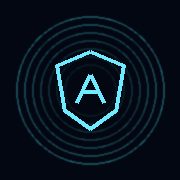
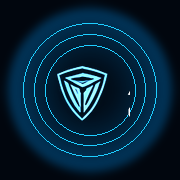
Add files via upload

diff --git a/index.html b/index.html
@@ -2,89 +2,258 @@
 <html lang="ja">
 <head>
   <meta charset="utf-8">
-  <meta name="viewport" content="width=device-width,initial-scale=1,viewport-fit=cover,user-scalable=no">
-  <meta name="theme-color" content="#020711">
+  <meta name="viewport" content="width=device-width,initial-scale=1,viewport-fit=cover,user-scalable=no,maximum-scale=1">
+  <meta name="theme-color" content="#00040a">
+  <meta name="color-scheme" content="dark">
   <meta name="apple-mobile-web-app-capable" content="yes">
   <meta name="apple-mobile-web-app-status-bar-style" content="black-translucent">
   <meta name="apple-mobile-web-app-title" content="AEGIS">
-  <link rel="apple-touch-icon" href="apple-touch-icon.png">
-  <link rel="manifest" href="manifest.webmanifest">
-  <title>AEGIS Mobile V0.2</title>
+  <meta name="format-detection" content="telephone=no">
+  <link rel="apple-touch-icon" href="./apple-touch-icon.png?v=030">
+  <link rel="manifest" href="./manifest.webmanifest?v=030">
+  <link rel="apple-touch-startup-image" href="./splash-1242x2688.png?v=030" media="(device-width: 414px) and (device-height: 896px) and (-webkit-device-pixel-ratio: 3) and (orientation: portrait)">
+  <title>AEGIS Guardian AI</title>
   <style>
-    :root{
-      --bg:#020711;--panel:#061321;--line:rgba(84,223,255,.28);
-      --cyan:#6eeaff;--cyan2:#1ba9ff;--text:#e9fbff;--muted:#7ca4b3;
+    :root {
+      --cyan:#29c9ff; --cyan2:#79edff; --blue:#176dff; --violet:#7b58ff;
+      --green:#3df29c; --red:#ff4050; --ink:#00040a; --panel:rgba(1,10,21,.94);
+      --screen-ratio: .4625813449;
     }
     *{box-sizing:border-box;-webkit-tap-highlight-color:transparent}
-    html,body{margin:0;background:radial-gradient(circle at 50% 34%,#082941 0,#020711 43%,#01040a 100%);color:var(--text);font-family:-apple-system,BlinkMacSystemFont,"SF Pro Display","Segoe UI",sans-serif;min-height:100%}
-    body{padding:env(safe-area-inset-top) 14px env(safe-area-inset-bottom)}
-    .wrap{max-width:430px;margin:0 auto;min-height:100vh;position:relative;overflow:hidden}
-    .grid{position:absolute;inset:0;opacity:.12;background-image:linear-gradient(var(--line) 1px,transparent 1px),linear-gradient(90deg,var(--line) 1px,transparent 1px);background-size:26px 26px;mask-image:linear-gradient(#000,transparent 80%);pointer-events:none}
-    header{display:flex;justify-content:space-between;align-items:center;padding:10px 4px 6px;position:relative;z-index:5}
-    .brand{font-weight:700;letter-spacing:.15em}.sub{font-size:11px;color:var(--muted);margin-top:3px}.badge{font-size:11px;border:1px solid var(--line);border-radius:999px;padding:7px 9px;color:var(--cyan)}
-    .hud{border:1px solid var(--line);border-radius:26px;padding:15px;background:rgba(3,12,22,.62);backdrop-filter:blur(8px);position:relative;overflow:hidden}
-    .row{display:flex;justify-content:space-between;gap:8px;font-size:11px;color:var(--muted)}
-    .mini{margin-top:8px;display:grid;grid-template-columns:1fr 1fr;gap:8px}
-    .mini>div{border:1px solid var(--line);border-radius:12px;padding:8px 10px;background:rgba(5,17,30,.62);display:flex;justify-content:space-between}
-    .mini b{color:var(--cyan)}
-    .stage{position:relative;width:min(92vw,390px);aspect-ratio:1;margin:-4px auto -8px;display:grid;place-items:center;isolation:isolate}
-    .stage:before{content:"";position:absolute;inset:7%;border-radius:50%;background:radial-gradient(circle,rgba(60,220,255,.25),transparent 62%);filter:blur(10px);animation:breathe 3.3s ease-in-out infinite}
-    .ring,.arc,.halo,.scan,.beam,.orb,.particle{position:absolute}
-    .ring{border-radius:50%;border:1px solid var(--cyan);box-shadow:0 0 12px rgba(70,220,255,.35),inset 0 0 12px rgba(70,220,255,.15)}
-    .r1{inset:8%;border-style:dashed;opacity:.5;animation:spin 9s linear infinite}.r2{inset:15%;border-width:2px;border-left-color:transparent;border-right-color:transparent;animation:spinR 6.8s linear infinite}.r3{inset:23%;border-style:dotted;animation:spin 4.8s linear infinite}.r4{inset:31%;border-width:2px;border-top-color:transparent;animation:spinR 3.6s linear infinite}.r5{inset:39%;border-left-color:transparent;border-bottom-color:transparent;animation:spin 2.5s linear infinite}
-    .arc{border-radius:50%;border:2px solid transparent;border-top-color:var(--cyan);border-right-color:var(--cyan);filter:drop-shadow(0 0 6px var(--cyan));opacity:.75}.a1{inset:6%;animation:spin 5.5s linear infinite}.a2{inset:20%;animation:spinR 4.1s linear infinite}.a3{inset:35%;animation:spin 2.9s linear infinite}
-    .halo{left:18%;right:18%;height:9%;border:1px solid var(--cyan);border-radius:50%;opacity:.5;filter:drop-shadow(0 0 7px var(--cyan))}.h1{top:7%;animation:float 3s ease-in-out infinite}.h2{bottom:8%;animation:floatR 3.7s ease-in-out infinite}
-    .scan{left:10%;right:10%;height:1px;background:var(--cyan);box-shadow:0 0 9px var(--cyan);z-index:7;animation:scan 3s ease-in-out infinite}.beam{top:6%;bottom:6%;width:1px;background:linear-gradient(transparent,var(--cyan),transparent);left:50%;opacity:.4;animation:beam 2.5s ease-in-out infinite}
-    .orb{width:27%;aspect-ratio:1;border-radius:50%;border:2px solid var(--cyan);background:radial-gradient(circle at 50% 45%,rgba(85,235,255,.38),rgba(3,15,29,.96) 65%);box-shadow:0 0 34px rgba(80,228,255,.62),inset 0 0 30px rgba(80,228,255,.28);z-index:8;display:grid;place-items:center;animation:orb 2s ease-in-out infinite}
-    .shield{width:46%;aspect-ratio:1;clip-path:polygon(50% 0,92% 16%,79% 72%,50% 100%,21% 72%,8% 16%);border:2px solid var(--cyan);display:grid;place-items:center;font-weight:800;color:var(--cyan);text-shadow:0 0 12px var(--cyan)}
-    .particle{width:3px;height:3px;border-radius:50%;background:var(--cyan);box-shadow:0 0 8px var(--cyan);opacity:.65;animation:drift 3s ease-in-out infinite alternate}
-    .labels{text-align:center;margin-top:-12px}.mode{font-weight:700;letter-spacing:.12em}.desc{font-size:12px;color:var(--muted);margin-top:5px}
-    .flow{margin-top:12px;border:1px solid var(--line);border-radius:14px;padding:10px;background:rgba(4,14,25,.68)}.steps{display:grid;grid-template-columns:repeat(4,1fr);gap:5px}.step{border:1px solid var(--line);border-radius:9px;padding:7px 2px;text-align:center;font-size:10px;color:var(--muted)}.step.active{border-color:var(--cyan);color:var(--text);background:rgba(70,220,255,.09)}#decision{font-size:12px;color:var(--muted);margin-top:9px}
-    .buttons{display:grid;grid-template-columns:1fr 1fr;gap:8px;margin-top:12px}.buttons button{appearance:none;border:1px solid var(--line);border-radius:12px;padding:13px 8px;background:rgba(4,16,29,.82);color:var(--text);font:inherit}.buttons button:active{background:rgba(70,220,255,.12)}
-    .stage.listening .r1{animation-duration:4s}.stage.listening .r2{animation-duration:3s}.stage.listening .r3{animation-duration:2.2s}.stage.verifying .r1{animation-duration:2.7s}.stage.verifying .r2{animation-duration:1.9s}.stage.verifying .r3{animation-duration:1.4s}.stage.verifying .r4{animation-duration:1.05s}.stage.verifying .r5{animation-duration:.82s}.stage.verifying .scan{animation-duration:1.3s}.stage.approved .orb{animation-duration:.7s}.stage.stopped .ring,.stage.stopped .arc,.stage.stopped .halo,.stage.stopped .scan,.stage.stopped .beam,.stage.stopped .particle{animation-play-state:paused;opacity:.16}.stage.stopped .orb{animation:none}
-    @keyframes spin{to{transform:rotate(360deg)}}@keyframes spinR{to{transform:rotate(-360deg)}}@keyframes breathe{50%{transform:scale(1.06);opacity:1}}@keyframes orb{50%{transform:scale(1.05)}}@keyframes scan{0%{top:17%;opacity:0}20%{opacity:.9}80%{opacity:.9}100%{top:82%;opacity:0}}@keyframes beam{50%{opacity:.75;transform:scaleY(1.04)}}@keyframes float{50%{transform:translateY(5px) scaleX(1.04)}}@keyframes floatR{50%{transform:translateY(-5px) scaleX(.9)}}@keyframes drift{to{transform:translate(5px,8px) scale(1.35);opacity:1}}
-    @media (prefers-reduced-motion:reduce){*{animation:none!important}}
+    html,body{margin:0;width:100%;height:100%;overflow:hidden;background:#000;color:#eaffff;font-family:-apple-system,BlinkMacSystemFont,"SF Pro Display","Helvetica Neue",Arial,sans-serif;overscroll-behavior:none}
+    body{position:fixed;inset:0;touch-action:manipulation;user-select:none;-webkit-user-select:none}
+    #viewport{position:absolute;inset:0;display:grid;place-items:center;background:radial-gradient(circle at 50% 35%,#031728 0,#00040a 55%,#000 100%);overflow:hidden}
+    #screen{position:relative;overflow:hidden;background:#000;isolation:isolate;transform:translateZ(0);contain:layout paint size}
+    #baseline{position:absolute;inset:0;width:100%;height:100%;object-fit:fill;display:block;z-index:0;pointer-events:none}
+    #particleCanvas,#waveCanvas{position:absolute;display:block;pointer-events:none;z-index:4;mix-blend-mode:screen}
+    #particleCanvas{inset:0;width:100%;height:100%}
+    #waveCanvas{left:3.2%;top:60.3%;width:93.6%;height:4.2%;opacity:.78}
+    .core-fx{position:absolute;left:50%;top:36.9%;width:79.2%;aspect-ratio:1;transform:translate(-50%,-50%);z-index:3;pointer-events:none;filter:drop-shadow(0 0 .7em rgba(30,205,255,.24));}
+    .fx-ring,.fx-arc,.fx-orbit{position:absolute;border-radius:50%;inset:0;will-change:transform,opacity}
+    .fx-ring{border:1px solid rgba(83,227,255,.27);box-shadow:0 0 .9em rgba(29,185,255,.16),inset 0 0 .9em rgba(50,210,255,.08)}
+    .fx-ring.r1{inset:2%;border-style:dashed;animation:spin 17s linear infinite}
+    .fx-ring.r2{inset:9%;border-width:2px;border-left-color:transparent;border-right-color:rgba(130,239,255,.12);animation:spinR 11s linear infinite}
+    .fx-ring.r3{inset:18%;border-style:dotted;animation:spin 7.4s linear infinite}
+    .fx-ring.r4{inset:28%;border-width:2px;border-top-color:transparent;border-bottom-color:rgba(70,130,255,.14);animation:spinR 5.1s linear infinite}
+    .fx-ring.r5{inset:38%;border-left-color:transparent;border-bottom-color:transparent;animation:spin 3.6s linear infinite}
+    .fx-arc{border:2px solid transparent;border-top-color:rgba(80,225,255,.68);border-right-color:rgba(50,125,255,.42);filter:drop-shadow(0 0 .45em #2fd4ff)}
+    .fx-arc.a1{inset:5%;animation:spin 9.2s linear infinite}.fx-arc.a2{inset:16%;animation:spinR 6.3s linear infinite}.fx-arc.a3{inset:32%;animation:spin 4.2s linear infinite}
+    .fx-orbit{inset:7% 17%;border:1px solid rgba(104,222,255,.22);transform:rotate(11deg);animation:tiltOrbit 6s ease-in-out infinite alternate}
+    .core-glow{position:absolute;inset:35%;border-radius:50%;background:radial-gradient(circle,rgba(125,241,255,.34),rgba(32,142,255,.10) 43%,transparent 72%);filter:blur(.6em);animation:corePulse 2.7s ease-in-out infinite;will-change:transform,opacity}
+    .vertical-beam{position:absolute;z-index:2;left:49.86%;top:9.4%;width:.3%;height:48.9%;background:linear-gradient(to bottom,transparent,rgba(34,105,255,.22) 10%,rgba(71,231,255,.95) 48%,rgba(74,150,255,.36) 74%,transparent);filter:blur(.08em) drop-shadow(0 0 .65em #42dfff);animation:beamPulse 2.3s ease-in-out infinite;pointer-events:none;mix-blend-mode:screen}
+    .scan-line{position:absolute;z-index:5;left:12%;right:12%;height:1px;top:19%;background:linear-gradient(90deg,transparent,#58e8ff,transparent);box-shadow:0 0 .7em #4bdbff;opacity:.0;animation:scan 5.2s ease-in-out infinite;pointer-events:none}
+    .online-pulse{position:absolute;z-index:5;left:48.45%;top:4.43%;width:1.55%;aspect-ratio:1;border-radius:50%;background:#56f4ba;box-shadow:0 0 .65em rgba(68,255,183,.9);animation:onlinePulse 2s ease-in-out infinite;pointer-events:none}
+    .verify-glow{position:absolute;z-index:5;left:40.2%;top:65.26%;width:19.6%;height:9.13%;border:1px solid rgba(87,227,255,.66);border-radius:2.2%;box-shadow:0 0 1.15em rgba(31,185,255,.5),inset 0 0 .8em rgba(53,178,255,.13);animation:verifyPulse 2.5s ease-in-out infinite;pointer-events:none}
+    .decision-copy{position:absolute;z-index:6;left:4.4%;top:78.35%;width:68.5%;height:7.05%;padding:.55em .15em;background:linear-gradient(90deg,rgba(0,7,15,.97) 0,rgba(0,7,15,.93) 82%,transparent 100%);pointer-events:none}
+    .decision-kicker{font-size:clamp(7px,2.3vw,15px);color:#80aaba;letter-spacing:.03em;margin-bottom:.4em}
+    .decision-title{font-size:clamp(13px,4.65vw,30px);line-height:1;color:#31b8ff;letter-spacing:.055em;text-shadow:0 0 .6em rgba(28,160,255,.5);white-space:nowrap}
+    .decision-reason{font-size:clamp(7px,2.35vw,15px);color:#d1ebf3;margin-top:.7em;white-space:nowrap}
+    .mode-copy{position:absolute;z-index:6;left:24%;top:55.55%;width:52%;height:4.2%;display:flex;flex-direction:column;justify-content:center;align-items:center;background:radial-gradient(ellipse at center,rgba(0,5,12,.94) 0,rgba(0,5,12,.70) 65%,transparent 100%);pointer-events:none;opacity:0;transition:opacity .28s}
+    .mode-title{font-size:clamp(13px,4.2vw,27px);letter-spacing:.08em;color:#64e5ff;text-shadow:0 0 .5em #1ca7ff}
+    .mode-sub{font-size:clamp(7px,2.25vw,14px);color:#c8eaf2;margin-top:.25em}
+    .touch{position:absolute;z-index:10;border:0;background:transparent;padding:0;cursor:pointer}
+    .touch:focus-visible{outline:1px solid var(--cyan);outline-offset:-2px}
+    #gearHit{left:85.1%;top:1.7%;width:11.5%;height:5.5%}
+    #coreHit{left:17%;top:18.3%;width:66%;height:38.5%;border-radius:50%}
+    #detailsHit{left:73.5%;top:78.45%;width:21.8%;height:5.4%}
+    #approveHit{left:3.7%;top:85.4%;width:28.6%;height:6.85%}
+    #requestHit{left:34.3%;top:85.4%;width:30.4%;height:6.85%}
+    #rejectHit{left:66.7%;top:85.4%;width:29.3%;height:6.85%}
+    #navAegis{left:1%;top:93.0%;width:31.8%;height:5.8%}#navJarvis{left:34%;top:93.0%;width:31.5%;height:5.8%}#navMemory{left:67%;top:93.0%;width:32%;height:5.8%}
+    .button-glow{position:absolute;z-index:7;top:85.4%;height:6.85%;border-radius:7%;pointer-events:none;opacity:0;transition:left .25s,width .25s,opacity .25s,box-shadow .25s,border-color .25s}
+    .button-glow.show{opacity:1}.button-glow.request{left:34.3%;width:30.4%;border:1px solid rgba(47,133,255,.85);box-shadow:0 0 1.25em rgba(20,89,255,.68),inset 0 0 1em rgba(24,104,255,.18)}
+    .button-glow.approve{left:3.7%;width:28.6%;border:1px solid rgba(61,242,156,.9);box-shadow:0 0 1.25em rgba(29,226,124,.65),inset 0 0 1em rgba(36,210,118,.18)}
+    .button-glow.reject{left:66.7%;width:29.3%;border:1px solid rgba(255,64,80,.9);box-shadow:0 0 1.25em rgba(255,38,62,.65),inset 0 0 1em rgba(255,30,55,.18)}
+    .toast{position:absolute;z-index:30;left:7%;right:7%;top:72.8%;padding:.75em 1em;border:1px solid rgba(73,213,255,.44);border-radius:10px;background:rgba(0,9,19,.94);backdrop-filter:blur(10px);box-shadow:0 0 1.4em rgba(0,145,255,.24);font-size:clamp(8px,2.7vw,16px);letter-spacing:.03em;text-align:center;opacity:0;transform:translateY(.6em);transition:.3s;pointer-events:none}
+    .toast.show{opacity:1;transform:none}.toast.green{border-color:rgba(61,242,156,.55);color:#73ffc0}.toast.red{border-color:rgba(255,64,80,.6);color:#ff7a86}
+    .sheet-backdrop{position:absolute;inset:0;z-index:40;background:rgba(0,0,0,.63);backdrop-filter:blur(7px);opacity:0;pointer-events:none;transition:.25s}
+    .sheet-backdrop.open{opacity:1;pointer-events:auto}
+    .sheet{position:absolute;z-index:41;left:3.5%;right:3.5%;bottom:3%;padding:1.05em;border:1px solid rgba(54,194,255,.44);border-radius:18px;background:linear-gradient(180deg,rgba(4,22,38,.98),rgba(0,6,14,.98));box-shadow:0 0 2em rgba(0,145,255,.28);transform:translateY(110%);transition:.32s cubic-bezier(.2,.8,.2,1)}
+    .sheet-backdrop.open .sheet{transform:none}
+    .sheet-head{display:flex;justify-content:space-between;align-items:center;margin-bottom:.8em}.sheet-title{font-size:clamp(14px,4vw,24px);letter-spacing:.08em;color:#73e8ff}.sheet-close{appearance:none;border:1px solid rgba(75,207,255,.35);background:rgba(4,25,42,.8);color:#b9f4ff;border-radius:50%;width:2.2em;height:2.2em;font-size:1em}
+    .sheet-row{display:flex;justify-content:space-between;gap:1em;padding:.8em 0;border-top:1px solid rgba(70,177,220,.17);font-size:clamp(10px,2.8vw,17px)}.sheet-row span:last-child{color:#75dfff}
+    .critical{width:100%;margin-top:.8em;padding:.9em;border:1px solid rgba(255,55,76,.55);border-radius:12px;background:rgba(82,0,12,.28);color:#ff8290;font-weight:600;letter-spacing:.08em}
+    .details-body{font-size:clamp(10px,2.9vw,17px);line-height:1.55;color:#cdebf2}.evidence-list{margin:.7em 0 0;padding-left:1.2em;color:#78dbff}
+    .state-approved .fx-ring,.state-approved .fx-arc{border-color:rgba(70,255,177,.34);filter:drop-shadow(0 0 .45em #26ef93)}
+    .state-approved .core-glow{background:radial-gradient(circle,rgba(90,255,177,.4),rgba(20,188,118,.10) 45%,transparent 72%)}
+    .state-rejected .fx-ring,.state-rejected .fx-arc{border-color:rgba(255,65,82,.36);filter:drop-shadow(0 0 .45em #ff2947)}
+    .state-rejected .core-glow{background:radial-gradient(circle,rgba(255,66,93,.35),rgba(192,12,42,.09) 45%,transparent 72%)}
+    .state-listening .fx-ring.r1{animation-duration:5.2s}.state-listening .fx-ring.r2{animation-duration:3.8s}.state-listening .fx-ring.r3{animation-duration:2.9s}.state-listening .mode-copy{opacity:1}
+    .state-stopped .fx-ring,.state-stopped .fx-arc,.state-stopped .fx-orbit,.state-stopped .scan-line{animation-play-state:paused;opacity:.12}.state-stopped .vertical-beam{opacity:.08;animation:none}.state-stopped .core-glow{background:radial-gradient(circle,rgba(255,28,48,.45),transparent 68%);animation:criticalPulse .9s ease-in-out infinite}
+    @keyframes spin{to{transform:rotate(360deg)}}@keyframes spinR{to{transform:rotate(-360deg)}}
+    @keyframes tiltOrbit{0%{transform:rotate(8deg) scaleX(.98)}100%{transform:rotate(18deg) scaleX(1.04)}}
+    @keyframes corePulse{0%,100%{transform:scale(.91);opacity:.5}50%{transform:scale(1.1);opacity:1}}
+    @keyframes beamPulse{0%,100%{opacity:.43;transform:scaleX(.7)}50%{opacity:.95;transform:scaleX(1.25)}}
+    @keyframes scan{0%{top:19%;opacity:0}12%{opacity:.66}82%{opacity:.55}100%{top:79%;opacity:0}}
+    @keyframes onlinePulse{0%,100%{transform:scale(.82);opacity:.65}50%{transform:scale(1.25);opacity:1}}
+    @keyframes verifyPulse{0%,100%{opacity:.48}50%{opacity:1}}
+    @keyframes criticalPulse{0%,100%{transform:scale(.9);opacity:.45}50%{transform:scale(1.18);opacity:1}}
+    @media (prefers-reduced-motion:reduce){.fx-ring,.fx-arc,.fx-orbit,.core-glow,.vertical-beam,.scan-line,.online-pulse,.verify-glow{animation:none!important}}
   </style>
 </head>
 <body>
-<div class="wrap">
-  <div class="grid"></div>
-  <header>
-    <div><div class="brand">AEGIS</div><div class="sub">GUARDIAN AI · MOBILE CORE</div></div>
-    <div class="badge" id="badge">SYSTEM ONLINE</div>
-  </header>
-  <main class="hud">
-    <div class="row"><span>LINK: JARVIS</span><span>SECURITY: LOCKED</span></div>
-    <div class="mini"><div><span>THREAT</span><b>LOW</b></div><div><span>INTEGRITY</span><b>100%</b></div></div>
-    <section class="stage standby" id="stage">
-      <div class="beam"></div><div class="scan"></div>
-      <div class="halo h1"></div><div class="halo h2"></div>
-      <div class="ring r1"></div><div class="ring r2"></div><div class="ring r3"></div><div class="ring r4"></div><div class="ring r5"></div>
-      <div class="arc a1"></div><div class="arc a2"></div><div class="arc a3"></div>
-      <div class="orb"><div class="shield">A</div></div>
-      <div id="particles"></div>
-    </section>
-    <div class="mini"><div><span>SCAN MODE</span><b id="scanMode">PASSIVE</b></div><div><span>MEMORY</span><b>ISOLATED</b></div></div>
-    <div class="labels"><div class="mode" id="mode">STANDBY</div><div class="desc" id="desc">Guardian core stable.</div></div>
-    <section class="flow">
-      <div class="steps"><div class="step active">RECEIVED</div><div class="step">ANALYSIS</div><div class="step">VERIFY</div><div class="step">RESULT</div></div>
-      <div id="decision">Awaiting command.</div>
-    </section>
-    <div class="buttons">
-      <button id="listen">LISTEN</button><button id="verify">VERIFY</button>
-      <button id="approve">APPROVE</button><button id="stop">CRITICAL STOP</button>
+<div id="viewport">
+  <main id="screen" class="state-request" aria-label="AEGIS Guardian AI interface">
+    <img id="baseline" src="./aegis-visual-baseline-v1.webp?v=030" alt="">
+    <canvas id="particleCanvas"></canvas>
+    <div class="vertical-beam"></div>
+    <div class="scan-line"></div>
+    <div class="online-pulse"></div>
+    <div class="core-fx" aria-hidden="true">
+      <div class="fx-ring r1"></div><div class="fx-ring r2"></div><div class="fx-ring r3"></div><div class="fx-ring r4"></div><div class="fx-ring r5"></div>
+      <div class="fx-arc a1"></div><div class="fx-arc a2"></div><div class="fx-arc a3"></div><div class="fx-orbit"></div><div class="core-glow"></div>
+    </div>
+    <canvas id="waveCanvas"></canvas>
+    <div class="verify-glow"></div>
+    <div class="mode-copy"><div class="mode-title" id="modeTitle">LISTENING</div><div class="mode-sub" id="modeSub">Secure voice channel active</div></div>
+    <div class="decision-copy" aria-live="polite">
+      <div class="decision-kicker">DECISION STATUS</div>
+      <div class="decision-title" id="decisionTitle">REQUEST_EVIDENCE</div>
+      <div class="decision-reason" id="decisionReason">Reason: Evidence integrity is incomplete.</div>
+    </div>
+    <div class="button-glow request show" id="buttonGlow"></div>
+    <div class="toast" id="toast"></div>
+
+    <button class="touch" id="gearHit" aria-label="Open AEGIS settings"></button>
+    <button class="touch" id="coreHit" aria-label="Toggle AEGIS listening mode"></button>
+    <button class="touch" id="detailsHit" aria-label="View verification details"></button>
+    <button class="touch" id="approveHit" aria-label="Approve"></button>
+    <button class="touch" id="requestHit" aria-label="Request evidence"></button>
+    <button class="touch" id="rejectHit" aria-label="Reject"></button>
+    <button class="touch" id="navAegis" aria-label="AEGIS"></button>
+    <button class="touch" id="navJarvis" aria-label="JARVIS"></button>
+    <button class="touch" id="navMemory" aria-label="Memory"></button>
+
+    <div class="sheet-backdrop" id="detailsBackdrop" role="dialog" aria-modal="true" aria-label="Verification details">
+      <section class="sheet">
+        <div class="sheet-head"><div class="sheet-title">VERIFICATION DETAILS</div><button class="sheet-close" data-close="details">×</button></div>
+        <div class="details-body">Current decision: <strong style="color:#45c8ff">REQUEST_EVIDENCE</strong><br>Integrity proof is incomplete. AEGIS will not grant execution authority until the required evidence is supplied.</div>
+        <ul class="evidence-list"><li>Current SHA256</li><li>File byte count</li><li>Modification timestamp</li></ul>
+        <div class="sheet-row"><span>EXECUTION AUTHORITY</span><span style="color:#ff6674">NOT GRANTED</span></div>
+      </section>
+    </div>
+
+    <div class="sheet-backdrop" id="settingsBackdrop" role="dialog" aria-modal="true" aria-label="AEGIS settings">
+      <section class="sheet">
+        <div class="sheet-head"><div class="sheet-title">AEGIS CONTROL</div><button class="sheet-close" data-close="settings">×</button></div>
+        <div class="sheet-row"><span>MODEL</span><span>AEGIS V0.3</span></div>
+        <div class="sheet-row"><span>LINK</span><span>JARVIS · SIMULATED</span></div>
+        <div class="sheet-row"><span>VISUAL BASELINE</span><span>V1 · LOCKED</span></div>
+        <div class="sheet-row"><span>MEMORY</span><span>ISOLATED</span></div>
+        <button class="critical" id="criticalBtn">CRITICAL STOP</button>
+      </section>
     </div>
   </main>
 </div>
 <script>
-const stage=document.getElementById('stage'),mode=document.getElementById('mode'),desc=document.getElementById('desc'),scanMode=document.getElementById('scanMode'),decision=document.getElementById('decision'),badge=document.getElementById('badge'),steps=[...document.querySelectorAll('.step')],pf=document.getElementById('particles');
-for(let i=0;i<72;i++){const p=document.createElement('i');p.className='particle';const a=Math.random()*Math.PI*2,r=34+Math.random()*42;p.style.left=(50+Math.cos(a)*r/2)+'%';p.style.top=(50+Math.sin(a)*r/2)+'%';p.style.animationDelay=(Math.random()*2.5)+'s';p.style.animationDuration=(2.2+Math.random()*3.5)+'s';pf.appendChild(p)}
-function flow(n){steps.forEach((s,i)=>s.classList.toggle('active',i===n))}
-function state(c,m,d,s,n){stage.className='stage '+c;mode.textContent=m;desc.textContent=d;scanMode.textContent=s;flow(n);badge.textContent=c==='stopped'?'CORE LOCKED':'SYSTEM ONLINE'}
-listen.onclick=()=>{state('listening','LISTENING','Voice interface simulation active.','VOICE',1);decision.textContent='Awaiting spoken command.'}
-verify.onclick=()=>{state('verifying','VERIFYING','Evidence verification in progress.','DEEP',2);decision.textContent='Cross-checking evidence, policy and risk...';setTimeout(()=>{if(stage.classList.contains('verifying')){flow(3);decision.textContent='REQUEST_EVIDENCE — integrity evidence incomplete.'}},1800)}
-approve.onclick=()=>{state('approved','APPROVED','Verification result accepted for prototype.','CLEAR',3);decision.textContent='Execution remains simulated in V0.2.'}
-stop.onclick=()=>{state('stopped','CRITICAL STOP','All simulated authority locked.','LOCKED',3);decision.textContent='Manual release required.'}
-if('serviceWorker' in navigator){addEventListener('load',()=>navigator.serviceWorker.register('./sw.js').catch(()=>{}))}
+(() => {
+  'use strict';
+  const VERSION='0.3.0';
+  const screen=document.getElementById('screen');
+  const particleCanvas=document.getElementById('particleCanvas');
+  const waveCanvas=document.getElementById('waveCanvas');
+  const decisionTitle=document.getElementById('decisionTitle');
+  const decisionReason=document.getElementById('decisionReason');
+  const modeTitle=document.getElementById('modeTitle');
+  const modeSub=document.getElementById('modeSub');
+  const glow=document.getElementById('buttonGlow');
+  const toast=document.getElementById('toast');
+  const detailsBackdrop=document.getElementById('detailsBackdrop');
+  const settingsBackdrop=document.getElementById('settingsBackdrop');
+  let state='request', listening=false, stopped=false, toastTimer=0, animationId=0;
+  const particles=[];
+
+  function fit(){
+    const vw=window.innerWidth, vh=window.innerHeight, ratio=853/1844;
+    let w,h;
+    if(vw/vh>ratio){h=vh;w=h*ratio}else{w=vw;h=w/ratio}
+    screen.style.width=w+'px';screen.style.height=h+'px';
+    setupCanvases();
+  }
+  function setupCanvases(){
+    const rect=screen.getBoundingClientRect(), dpr=Math.min(window.devicePixelRatio||1,2);
+    particleCanvas.width=Math.round(rect.width*dpr);particleCanvas.height=Math.round(rect.height*dpr);
+    particleCanvas.dataset.dpr=dpr;
+    const wr=waveCanvas.getBoundingClientRect();waveCanvas.width=Math.round(wr.width*dpr);waveCanvas.height=Math.round(wr.height*dpr);waveCanvas.dataset.dpr=dpr;
+    if(!particles.length){
+      for(let i=0;i<78;i++) particles.push({a:Math.random()*Math.PI*2,r:.14+Math.random()*.27,s:(Math.random()*.0008+.00025)*(Math.random()<.5?-1:1),z:.3+Math.random()*.7,p:Math.random()*Math.PI*2});
+    }
+  }
+  function render(t){
+    const dpr=+particleCanvas.dataset.dpr||1, w=particleCanvas.width, h=particleCanvas.height, ctx=particleCanvas.getContext('2d');
+    ctx.clearRect(0,0,w,h);ctx.save();ctx.scale(dpr,dpr);
+    const cw=w/dpr,ch=h/dpr,cx=cw*.5,cy=ch*.369,unit=Math.min(cw,ch);
+    const speed=stopped?0:(listening?2.1:1);
+    for(const p of particles){
+      p.a+=p.s*speed*16.7;
+      const rr=p.r*cw;const squash=.82+Math.sin(p.p+t*.00032)*.12;
+      const x=cx+Math.cos(p.a)*rr;const y=cy+Math.sin(p.a)*rr*squash;
+      const pulse=.28+.72*(.5+.5*Math.sin(t*.0022+p.p));
+      const size=(.7+p.z*1.55)*pulse;
+      const violet=Math.sin(p.p)>0;
+      ctx.fillStyle=violet?`rgba(135,84,255,${.18+.55*pulse})`:`rgba(61,218,255,${.16+.58*pulse})`;
+      ctx.shadowColor=violet?'#7a55ff':'#35d8ff';ctx.shadowBlur=5*p.z;
+      ctx.beginPath();ctx.arc(x,y,size,0,Math.PI*2);ctx.fill();
+    }
+    ctx.restore();
+
+    const wdpr=+waveCanvas.dataset.dpr||1, ww=waveCanvas.width, wh=waveCanvas.height, wx=waveCanvas.getContext('2d');
+    wx.clearRect(0,0,ww,wh);wx.save();wx.scale(wdpr,wdpr);
+    const W=ww/wdpr,H=wh/wdpr,mid=H/2,bars=84;
+    for(let i=0;i<bars;i++){
+      const x=(i/(bars-1))*W;const centerWeight=.25+.75*Math.sin(Math.PI*i/(bars-1));
+      const amp=(listening?1.0:.58)*(2+centerWeight*(H*.32))*(.36+.64*Math.abs(Math.sin(t*.004+i*.47)+Math.sin(t*.0021-i*.22))*.5);
+      const mix=i/(bars-1);const r=Math.round(35+mix*98),g=Math.round(204-mix*91),b=255;
+      wx.strokeStyle=`rgba(${r},${g},${b},.86)`;wx.lineWidth=Math.max(1,W/560);wx.shadowColor=mix>.7?'#6a4cff':'#16cfff';wx.shadowBlur=4;
+      wx.beginPath();wx.moveTo(x,mid-amp/2);wx.lineTo(x,mid+amp/2);wx.stroke();
+    }
+    wx.restore();
+    animationId=requestAnimationFrame(render);
+  }
+  function showToast(message,tone=''){
+    clearTimeout(toastTimer);toast.textContent=message;toast.className='toast show '+tone;
+    toastTimer=setTimeout(()=>toast.className='toast',2200);
+  }
+  function setDecision(next){
+    if(stopped)return;
+    state=next;screen.classList.remove('state-request','state-approved','state-rejected');screen.classList.add('state-'+next);
+    glow.className='button-glow show '+next;
+    if(next==='approve'){
+      decisionTitle.textContent='APPROVED';decisionTitle.style.color='#56f0ac';decisionReason.textContent='Result: Verification accepted for prototype only.';showToast('APPROVED · Execution remains simulated','green');
+    }else if(next==='reject'){
+      decisionTitle.textContent='REJECTED';decisionTitle.style.color='#ff5c6b';decisionReason.textContent='Reason: Risk threshold or policy requirement failed.';showToast('REJECTED · Execution authority denied','red');
+    }else{
+      decisionTitle.textContent='REQUEST_EVIDENCE';decisionTitle.style.color='#31b8ff';decisionReason.textContent='Reason: Evidence integrity is incomplete.';showToast('Additional evidence requested');
+    }
+  }
+  function toggleListening(){
+    if(stopped)return;
+    listening=!listening;screen.classList.toggle('state-listening',listening);
+    modeTitle.textContent=listening?'LISTENING':'VERIFYING';modeSub.textContent=listening?'Secure voice channel active':'Evidence Verification in Progress';
+    showToast(listening?'VOICE CHANNEL · SIMULATION ACTIVE':'VOICE CHANNEL · STANDBY');
+  }
+  function stop(){
+    stopped=true;listening=false;screen.classList.remove('state-listening','state-approved','state-rejected','state-request');screen.classList.add('state-stopped');
+    decisionTitle.textContent='CRITICAL_STOP';decisionTitle.style.color='#ff4f61';decisionReason.textContent='All simulated authority is locked. Reload to release.';glow.className='button-glow';settingsBackdrop.classList.remove('open');showToast('CRITICAL STOP · CORE LOCKED','red');
+  }
+  document.getElementById('approveHit').onclick=()=>setDecision('approve');
+  document.getElementById('requestHit').onclick=()=>setDecision('request');
+  document.getElementById('rejectHit').onclick=()=>setDecision('reject');
+  document.getElementById('coreHit').onclick=toggleListening;
+  document.getElementById('detailsHit').onclick=()=>detailsBackdrop.classList.add('open');
+  document.getElementById('gearHit').onclick=()=>settingsBackdrop.classList.add('open');
+  document.getElementById('criticalBtn').onclick=stop;
+  document.querySelectorAll('[data-close]').forEach(b=>b.onclick=()=>document.getElementById(b.dataset.close+'Backdrop').classList.remove('open'));
+  [detailsBackdrop,settingsBackdrop].forEach(el=>el.addEventListener('click',e=>{if(e.target===el)el.classList.remove('open')}));
+  document.getElementById('navAegis').onclick=()=>showToast('AEGIS · GUARDIAN CORE ACTIVE');
+  document.getElementById('navJarvis').onclick=()=>showToast('JARVIS LINK · SIMULATED');
+  document.getElementById('navMemory').onclick=()=>showToast('MEMORY · ISOLATED / VERIFIED');
+  window.addEventListener('resize',fit,{passive:true});window.addEventListener('orientationchange',()=>setTimeout(fit,120),{passive:true});
+  document.addEventListener('visibilitychange',()=>{if(document.hidden){cancelAnimationFrame(animationId)}else{animationId=requestAnimationFrame(render)}});
+  fit();animationId=requestAnimationFrame(render);
+  if('serviceWorker' in navigator){window.addEventListener('load',()=>navigator.serviceWorker.register('./sw.js?v=030',{scope:'./'}).then(reg=>reg.update()).catch(()=>{}));}
+  window.AEGIS={version:VERSION};
+})();
 </script>
-</body></html>
+</body>
+</html>

diff --git a/sw.js b/sw.js
@@ -1,1 +1,15 @@
-const CACHE='aegis-v02';const ASSETS=['./','./index.html','./manifest.webmanifest','./apple-touch-icon.png','./icon-192.png','./icon-512.png'];self.addEventListener('install',e=>e.waitUntil(caches.open(CACHE).then(c=>c.addAll(ASSETS))));self.addEventListener('fetch',e=>e.respondWith(caches.match(e.request).then(r=>r||fetch(e.request))));
+const CACHE='aegis-v0.3.0-20260810';
+const CORE=['./','./?v=0.3.0','./index.html','./manifest.webmanifest','./aegis-visual-baseline-v1.webp','./apple-touch-icon.png','./icon-192.png','./icon-512.png','./splash-1242x2688.png'];
+self.addEventListener('install',event=>{self.skipWaiting();event.waitUntil(caches.open(CACHE).then(c=>c.addAll(CORE)));});
+self.addEventListener('activate',event=>{event.waitUntil(caches.keys().then(keys=>Promise.all(keys.filter(k=>k!==CACHE).map(k=>caches.delete(k)))).then(()=>self.clients.claim()));});
+self.addEventListener('fetch',event=>{
+  if(event.request.method!=='GET')return;
+  if(event.request.mode==='navigate'){
+    event.respondWith(fetch(event.request).then(r=>{const copy=r.clone();caches.open(CACHE).then(c=>c.put('./index.html',copy));return r;}).catch(()=>caches.match('./index.html')));
+    return;
+  }
+  event.respondWith(caches.match(event.request,{ignoreSearch:true}).then(cached=>{
+    const fresh=fetch(event.request).then(r=>{if(r&&r.ok){const copy=r.clone();caches.open(CACHE).then(c=>c.put(event.request,copy));}return r;}).catch(()=>cached);
+    return cached||fresh;
+  }));
+});
